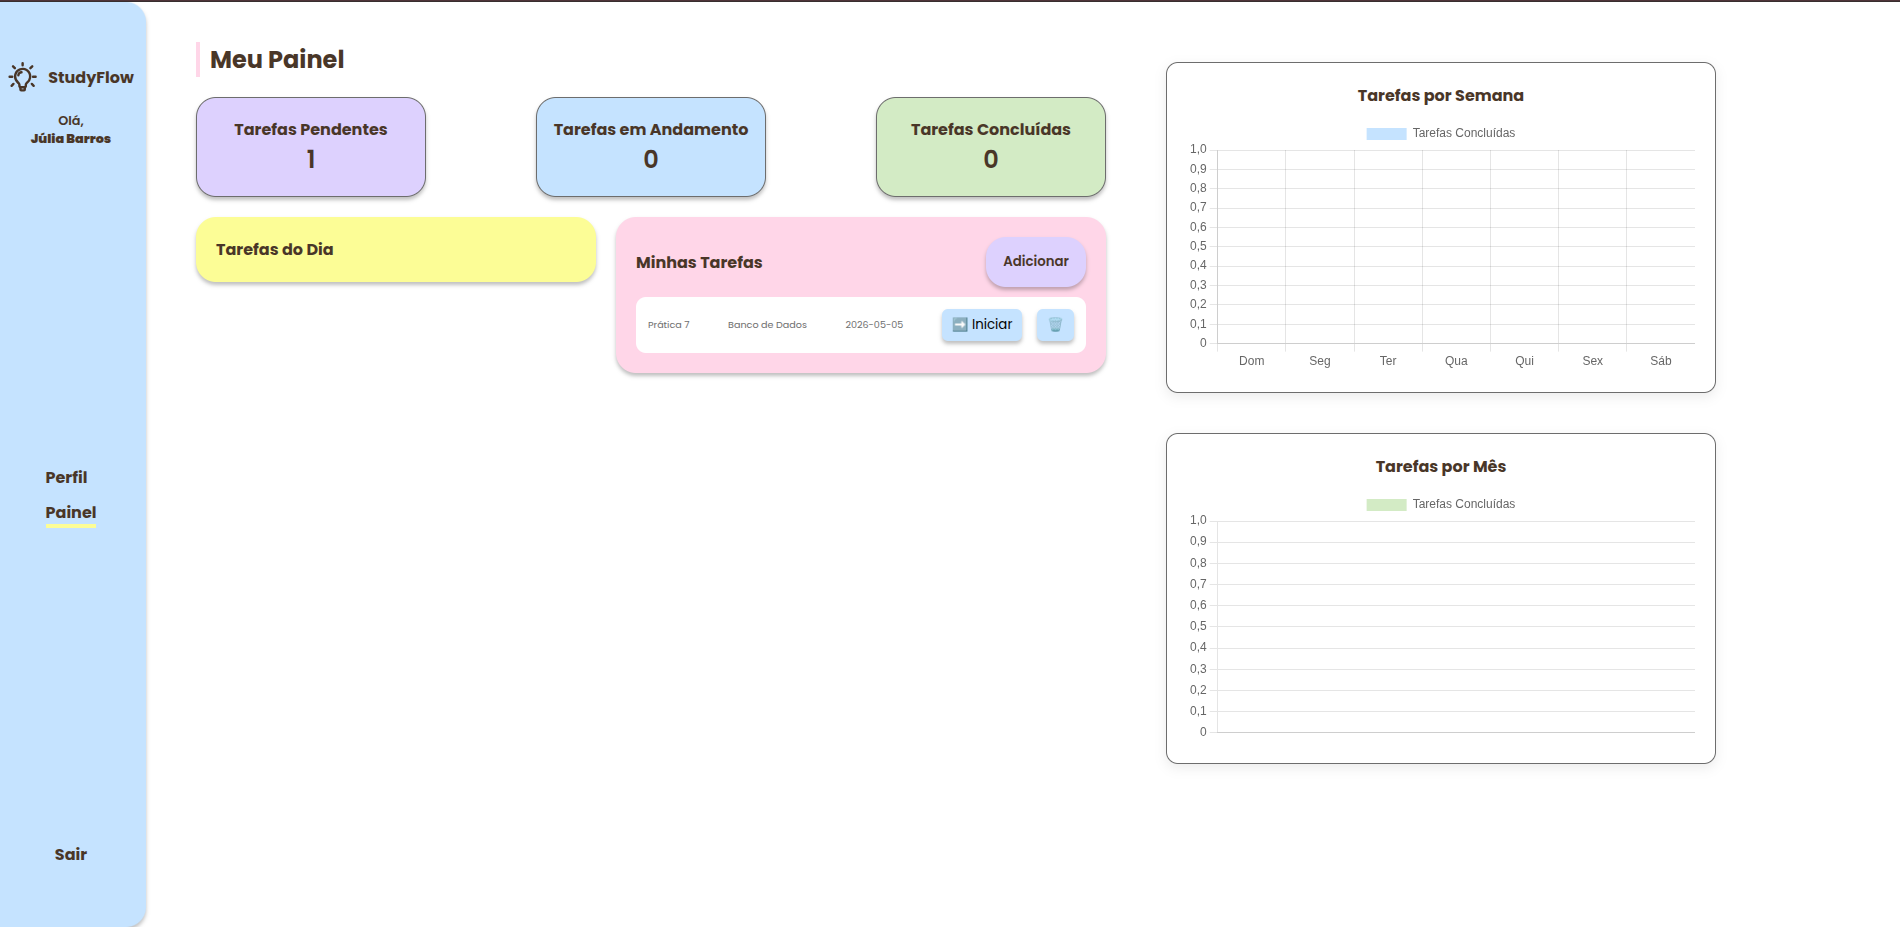
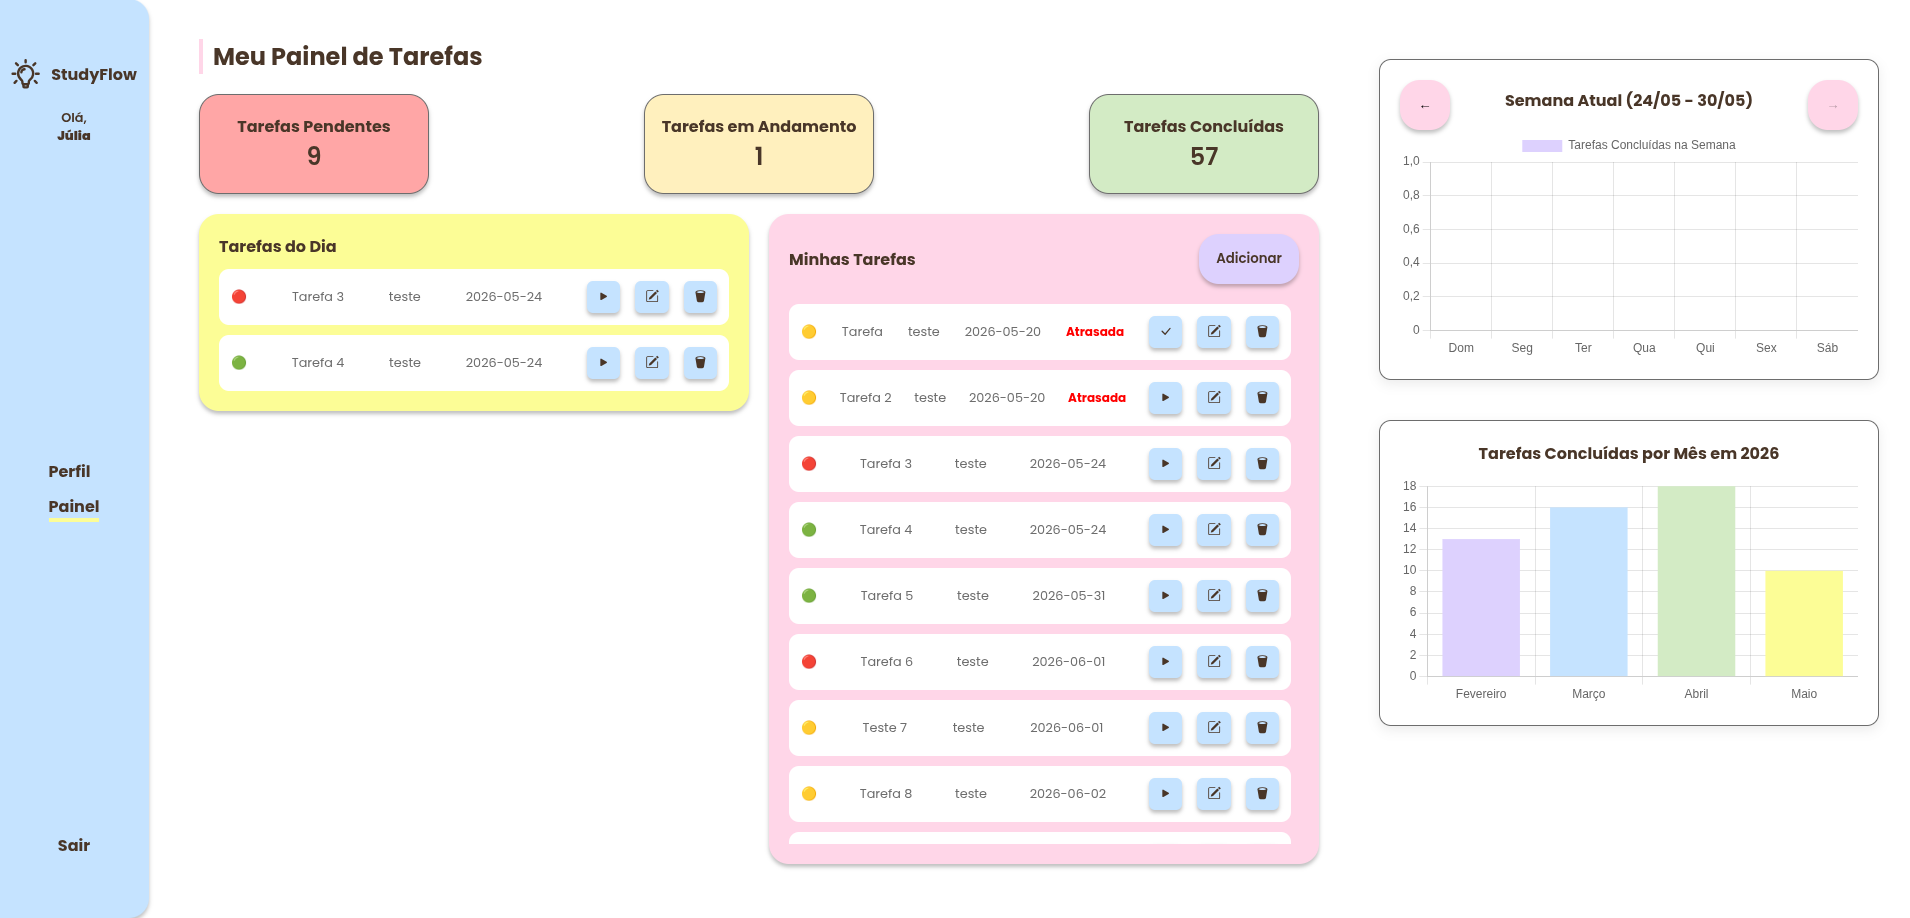
Atualização do README 4.0

diff --git a/README.md b/README.md
@@ -32,6 +32,8 @@ O <b>Study Flow</b> é um sistema web de planejamento de estudos que auxilia est
 
 <img src="public/assets/imgs/readme/7.png" alt=""> <br>
 
+<img src="public/assets/imgs/readme/9.png" alt=""> <br>
+
 <img src="public/assets/imgs/readme/8.png" alt=""> <br>
 
 <h2>| Tecnologias Usadas </h2>
